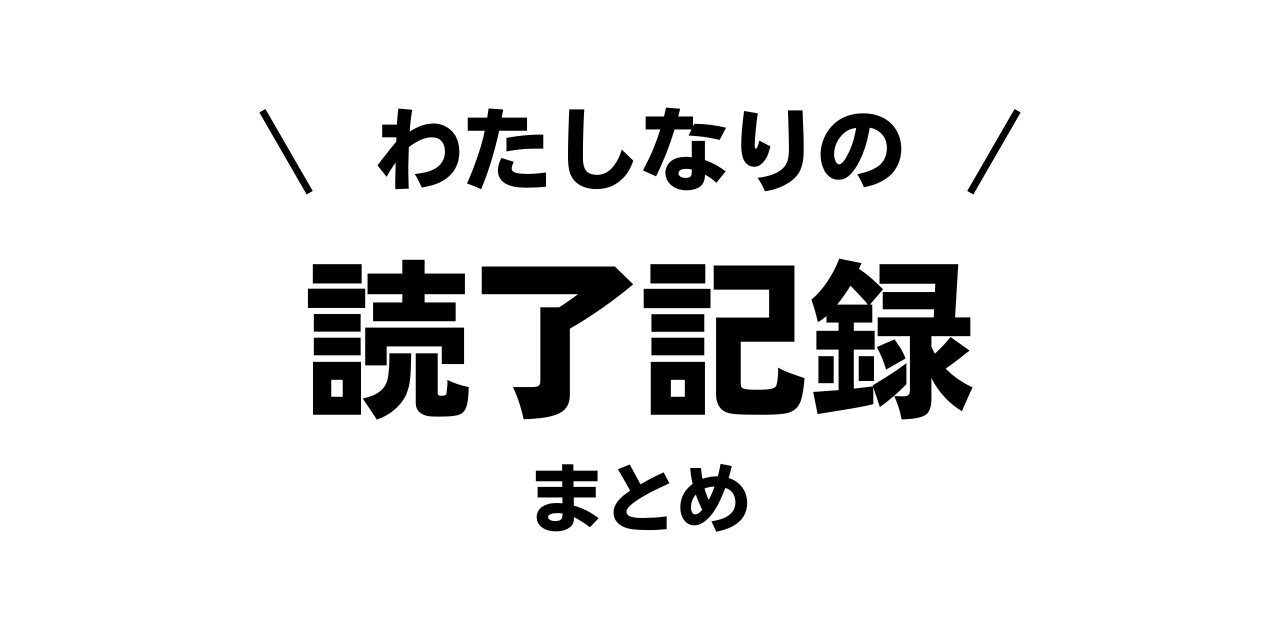
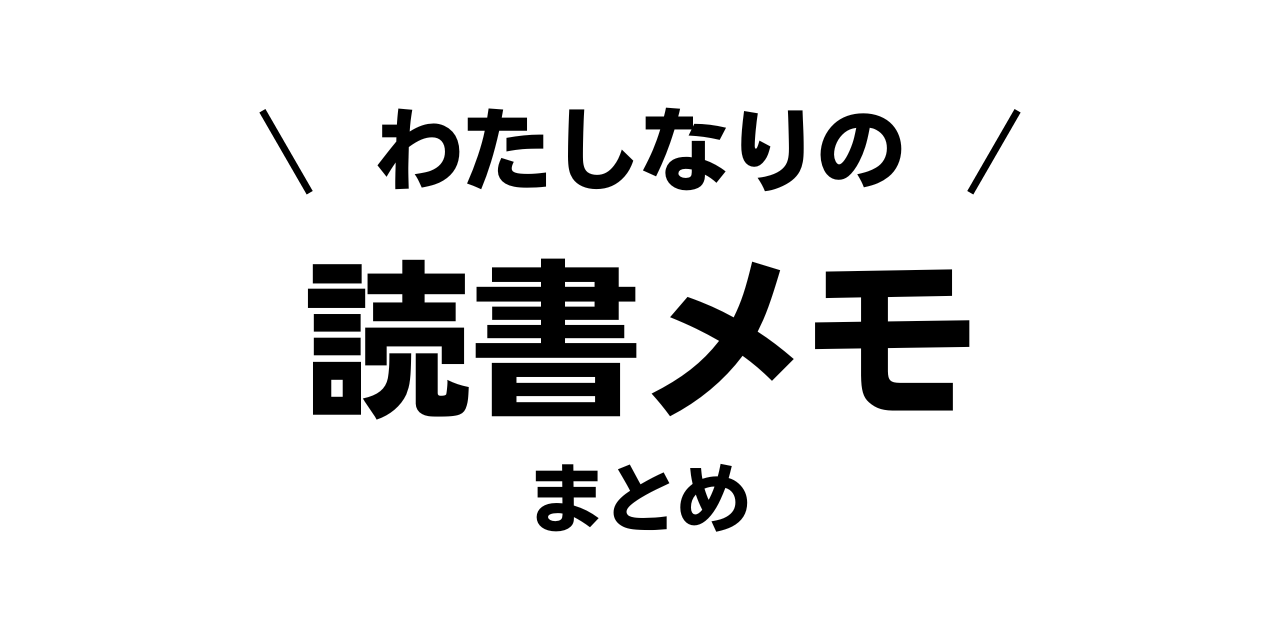
fix: 読書メモのbook画像を差し替え、altテキストを修正

Changed region(s): [[0.375, 0.4062, 0.7812, 0.6562]]

diff --git a/README.md b/README.md
@@ -8,7 +8,7 @@
 ## 🌱 読書履歴
 <div align="center">
   <a href="https://zenn.dev/aew2sbee/books/book-record-of-reading">
-    <img src="./images/book-record-of-reading.png" alt="わたしなりの読了記録まとめ" width="450"/>
+    <img src="./images/book-record-of-reading.png" alt="わたしなりの読書メモまとめ" width="450"/>
   </a>
 </div>
 
